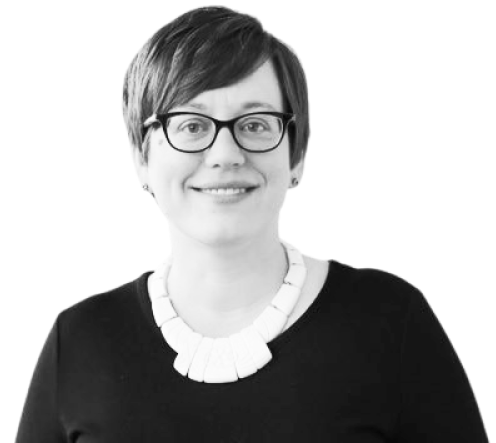
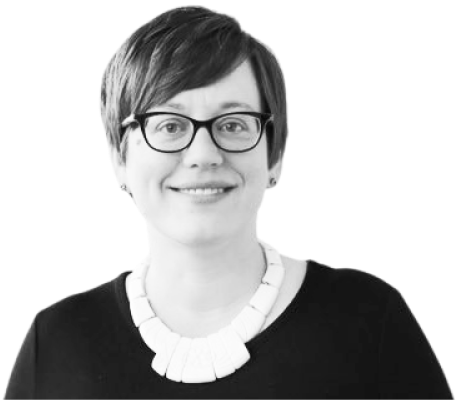
Update portraits

diff --git a/_includes/partners.html b/_includes/partners.html
@@ -1,17 +1,15 @@
 {% comment %} TODO: THE BELOW WOULD BE MEDIA LIKE NATURE ETC BUT JUST FEELING IT OUT {% endcomment %}
-<section class="section section--see-thru" data-aos="fade-up">
-  <aside style="margin-bottom: var(--space-lg);">
-    <div class="row" style="align-items: center;">
-      <h2 class="col col--1of3 font-serif">As seen in</h2>
-      <ul class="col col--2of3" style="display: flex; justify-content: space-between; align-items: center; width: 100%;">
-        {% for partner in partners %}
-        <li>
-          <a href="{{ partner.url }}" title="{{ partner.name }}’s site" target="_blank" rel="noopener" style="display: block;">
-            {% include partner.logo %}
-          </a>
-        </li>
-        {% endfor %}
-      </ul>
-    </div>
-  </aside>
+<section class="section section--quarter bg-white-15">
+  <div class="row">
+    <h2 class="col col--1of4 font-serif type-5">As seen in</h2>
+    <ul class="col col--3of4 row">
+      {% for partner in partners %}
+      <li class="col col--group col--1of6">
+        <a href="{{ partner.url }}" title="{{ partner.name }}’s site" target="_blank" rel="noopener" style="display: block;">
+          {% include partner.logo %}
+        </a>
+      </li>
+      {% endfor %}
+    </ul>
+  </div>
 </section>

diff --git a/_includes/css/portrait.css b/_includes/css/portrait.css
@@ -1,11 +1,12 @@
 .portrait {
   max-height: 30vh;
-  align-self: flex-start;
+  width: auto;
+  align-self: flex-end;
 }
 
 @media only screen and (min-width: 1024px) {
   .portrait {
-    max-height: 70vh;
+    max-height: fit-content;
     align-self: center;
   }
 }
